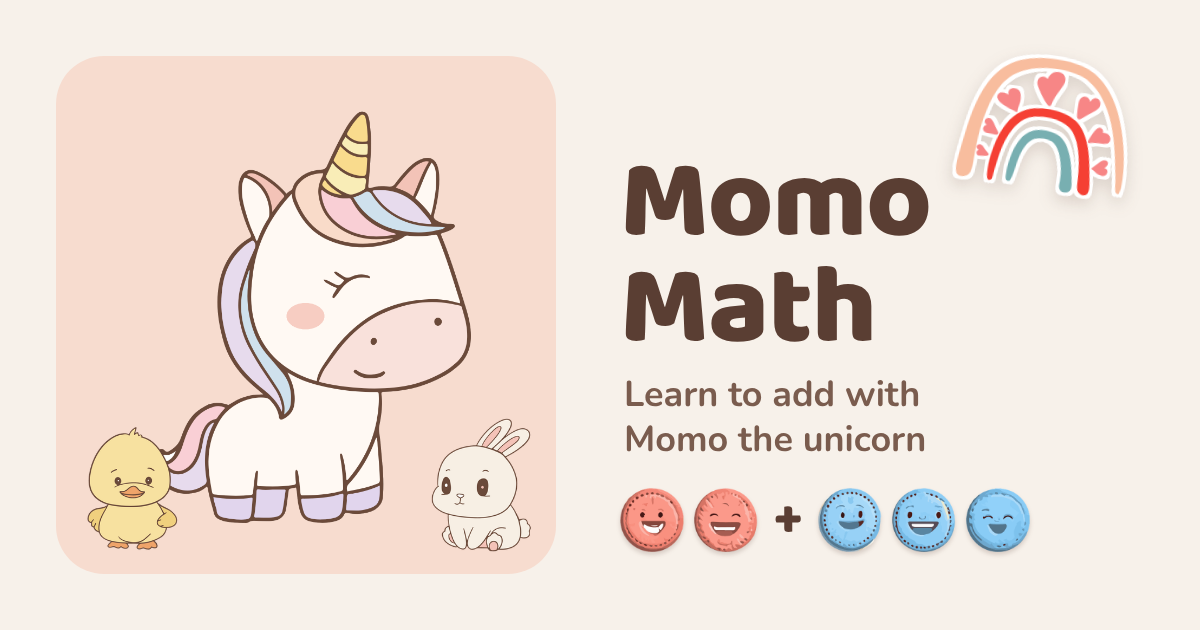
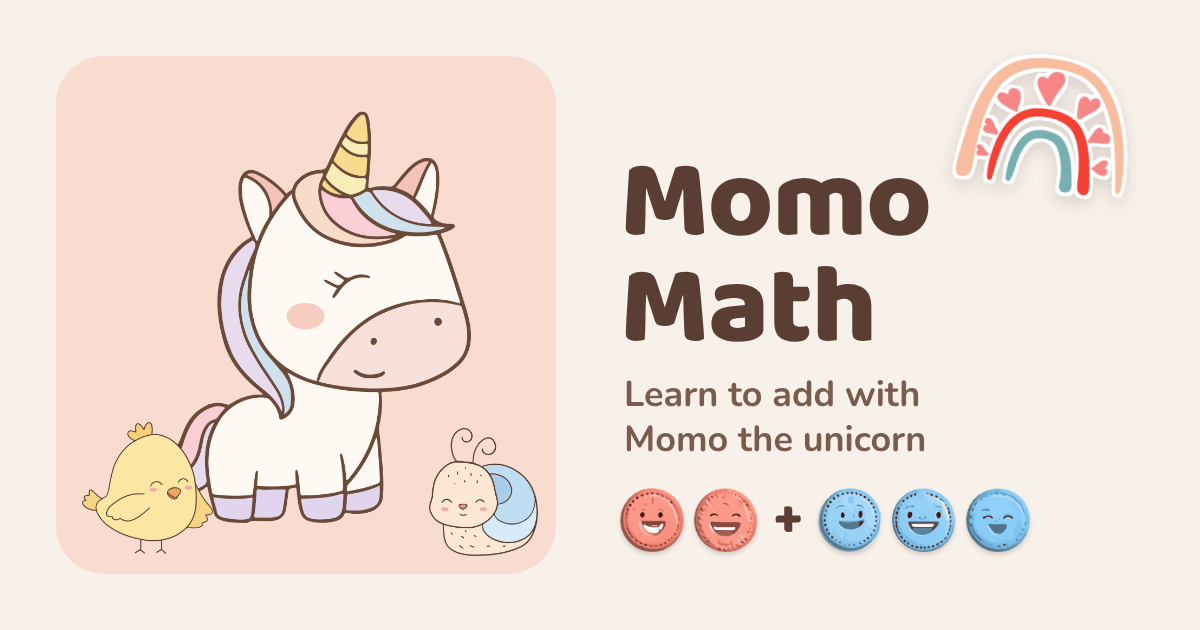
Bus Stop: snails instead of bunnies (art, text and voice in all languages); share image updated
Claude-Session: https://claude.ai/code/session_01MLGMh2dSNpCvxY5SBcjVA2

Changed region(s): [[0.0617, 0.6635, 0.185, 0.8746], [0.3392, 0.6635, 0.4625, 0.8746]]

diff --git a/index.html b/index.html
@@ -20,11 +20,11 @@
 <meta property="og:title" content="Momo Math">
 <meta property="og:description" content="Learn to add with Momo the unicorn: feed cookies, fill the egg carton, count bunnies on the bus. Free, in 6 languages.">
 <meta property="og:url" content="https://math-games-neon.vercel.app/">
-<meta property="og:image" content="https://math-games-neon.vercel.app/og-image.png?v=2">
+<meta property="og:image" content="https://math-games-neon.vercel.app/og-image.png?v=3">
 <meta property="og:image:width" content="1200">
 <meta property="og:image:height" content="630">
 <meta property="og:image:alt" content="Momo the unicorn with red and blue cookies: Momo Math">
-<meta name="twitter:image" content="https://math-games-neon.vercel.app/og-image.png?v=2">
+<meta name="twitter:image" content="https://math-games-neon.vercel.app/og-image.png?v=3">
 <meta name="twitter:card" content="summary_large_image">
 <link rel="preconnect" href="https://fonts.googleapis.com">
 <link href="https://fonts.googleapis.com/css2?family=Baloo+2:wght@600;700;800&family=Nunito:wght@600;700;800&display=swap" rel="stylesheet">
@@ -740,13 +740,13 @@ en: {
   sTenHowMany: [P('All full!', 'cheer'), P('How many blue eggs did you add?', 'ask')],
   sTenRight: function(s, a, n){ return [P('Yes!', 'cheer'), P(s + ' and ' + a + ' make ' + n + '!', 'proud')]; },
   sTenCounted: function(a){ return P('You added ' + a + '!', 'calm'); },
-  busAlt: 'Lulu the bunny', busAll: 'All aboard!', busHowMany: 'How many on the bus?', busAllOn: 'Everyone’s on!', busCount: 'Let’s count on!',
-  busIn: function(s){ return s + ' ' + pl(s, 'bunny', 'bunnies') + ' already on the bus'; }, busTap: 'Help this bunny get on the bus',
-  sBusAsk: function(s, a){ return [P(s === 1 ? 'There is 1 bunny on the bus.' : 'There are ' + s + ' bunnies on the bus.', 'calm'), P(a === 1 ? '1 more is waiting.' : a + ' more are waiting.', 'calm'), P('Tap them to get on!', 'cheer')]; },
-  sBusHowMany: [P('Everyone’s on!', 'cheer'), P('How many bunnies are on the bus now?', 'ask')],
+  busAlt: 'Lulu the snail', busAll: 'All aboard!', busHowMany: 'How many on the bus?', busAllOn: 'Everyone’s on!', busCount: 'Let’s count on!',
+  busIn: function(s){ return s + ' ' + pl(s, 'snail', 'snails') + ' already on the bus'; }, busTap: 'Help this snail get on the bus',
+  sBusAsk: function(s, a){ return [P(s === 1 ? 'There is 1 snail on the bus.' : 'There are ' + s + ' snails on the bus.', 'calm'), P(a === 1 ? '1 more is waiting.' : a + ' more are waiting.', 'calm'), P('Tap them to get on!', 'cheer')]; },
+  sBusHowMany: [P('Everyone’s on!', 'cheer'), P('How many snails are on the bus now?', 'ask')],
   sBusRight: function(s, a, t){ return [P('Yes!', 'cheer'), P(s + ' plus ' + a + ' makes ' + t + '!', 'proud'), P('Beep beep!', 'cheer')]; },
   sBusCountOn: function(s){ return P('Let’s count on. Start at ' + s + '.', 'calm'); },
-  sBusCounted: function(t){ return P(t + ' bunnies!', 'calm'); },
+  sBusCounted: function(t){ return P(t + ' snails!', 'calm'); },
   pickBuddy: 'Pick your buddy!', changeBuddy: 'Change my buddy', buddyN: function(n){ return 'Buddy ' + n; },
   sVoiceOn: [P('Voice is on.', 'calm')],
   sSample: [P('Hi! I’m Momo.', 'cheer'), P('Let’s count cookies!', 'calm')]
@@ -809,13 +809,13 @@ fr: {
   sTenHowMany: [P('C’est plein !', 'cheer'), P('Combien d’œufs bleus as-tu ajoutés ?', 'ask')],
   sTenRight: function(s, a, n){ return [P('Oui !', 'cheer'), P(s + ' et ' + a + ', ça fait ' + n + ' !', 'proud')]; },
   sTenCounted: function(a){ return P('Tu en as ajouté ' + a + ' !', 'calm'); },
-  busAlt: 'Lulu le lapin', busAll: 'Tout le monde monte !', busHowMany: 'Combien dans le bus ?', busAllOn: 'Tout le monde est là !', busCount: 'On compte à partir de là !',
-  busIn: function(s){ return s + ' ' + pl(s, 'lapin', 'lapins') + ' déjà dans le bus'; }, busTap: 'Aider ce lapin à monter dans le bus',
-  sBusAsk: function(s, a){ return [P('Il y a ' + s + ' ' + pl(s, 'lapin', 'lapins') + ' dans le bus.', 'calm'), P(a === 1 ? 'Encore 1 attend.' : 'Encore ' + a + ' attendent.', 'calm'), P('Touche-les pour les faire monter !', 'cheer')]; },
-  sBusHowMany: [P('Tout le monde est là !', 'cheer'), P('Combien de lapins dans le bus maintenant ?', 'ask')],
+  busAlt: 'Lulu l’escargot', busAll: 'Tout le monde monte !', busHowMany: 'Combien dans le bus ?', busAllOn: 'Tout le monde est là !', busCount: 'On compte à partir de là !',
+  busIn: function(s){ return s + ' ' + pl(s, 'escargot', 'escargots') + ' déjà dans le bus'; }, busTap: 'Aider cet escargot à monter dans le bus',
+  sBusAsk: function(s, a){ return [P('Il y a ' + s + ' ' + pl(s, 'escargot', 'escargots') + ' dans le bus.', 'calm'), P(a === 1 ? 'Encore 1 attend.' : 'Encore ' + a + ' attendent.', 'calm'), P('Touche-les pour les faire monter !', 'cheer')]; },
+  sBusHowMany: [P('Tout le monde est là !', 'cheer'), P('Combien d’escargots dans le bus maintenant ?', 'ask')],
   sBusRight: function(s, a, t){ return [P('Oui !', 'cheer'), P(s + ' plus ' + a + ', ça fait ' + t + ' !', 'proud'), P('Tut tut !', 'cheer')]; },
   sBusCountOn: function(s){ return P('On part de ' + s + ' et on continue.', 'calm'); },
-  sBusCounted: function(t){ return P(t + ' lapins !', 'calm'); },
+  sBusCounted: function(t){ return P(t + ' escargots !', 'calm'); },
   pickBuddy: 'Choisis ton animal\u00a0!', changeBuddy: 'Changer mon animal', buddyN: function(n){ return 'Animal ' + n; },
   sVoiceOn: [P('La voix est activée.', 'calm')],
   sSample: [P('Coucou ! Je suis Momo.', 'cheer'), P('On compte des biscuits ?', 'ask')]
@@ -878,10 +878,10 @@ zh: {
   sTenHowMany: [P('放满啦！', 'cheer'), P('你放了几个蓝色的鸡蛋？', 'ask')],
   sTenRight: function(s, a, n){ return [P('对啦！', 'cheer'), P(s + '和' + a + '凑成' + n + '！', 'proud')]; },
   sTenCounted: function(a){ return P('你放了' + a + '个！', 'calm'); },
-  busAlt: '小兔露露', busAll: '大家上车！', busHowMany: '车上有几只？', busAllOn: '都上车啦！', busCount: '接着数！',
-  busIn: function(s){ return '车上已经有' + s + '只小兔'; }, busTap: '帮这只小兔上车',
-  sBusAsk: function(s, a){ return [P('车上已经有' + s + '只小兔。', 'calm'), P('还有' + a + '只在等车。', 'calm'), P('点它们上车吧！', 'cheer')]; },
-  sBusHowMany: [P('都上车啦！', 'cheer'), P('现在车上一共有几只小兔？', 'ask')],
+  busAlt: '蜗牛露露', busAll: '大家上车！', busHowMany: '车上有几只？', busAllOn: '都上车啦！', busCount: '接着数！',
+  busIn: function(s){ return '车上已经有' + s + '只小蜗牛'; }, busTap: '帮这只小蜗牛上车',
+  sBusAsk: function(s, a){ return [P('车上已经有' + s + '只小蜗牛。', 'calm'), P('还有' + a + '只在等车。', 'calm'), P('点它们上车吧！', 'cheer')]; },
+  sBusHowMany: [P('都上车啦！', 'cheer'), P('现在车上一共有几只小蜗牛？', 'ask')],
   sBusRight: function(s, a, t){ return [P('对啦！', 'cheer'), P(s + '加' + a + '等于' + t + '！', 'proud'), P('嘀嘀！', 'cheer')]; },
   sBusCountOn: function(s){ return P('从' + s + '开始，接着数。', 'calm'); },
   sBusCounted: function(t){ return P('一共' + t + '只！', 'calm'); },
@@ -947,9 +947,9 @@ ja: {
   sTenHowMany: [P('いっぱいに なったね！', 'cheer'), P('あおい たまごを いくつ いれたかな？', 'ask')],
   sTenRight: function(s, a, n){ return [P('せいかい！', 'cheer'), P(s + 'と ' + a + 'で ' + n + '！', 'proud')]; },
   sTenCounted: function(a){ return P(a + 'こ いれたね！', 'calm'); },
-  busAlt: 'うさぎの ルル', busAll: 'のってね！', busHowMany: 'バスに なんびき？', busAllOn: 'みんな のったよ！', busCount: 'つづけて かぞえよう！',
-  busIn: function(s){ return 'バスには もう ' + s + 'ひき のってるよ'; }, busTap: 'この うさぎを バスに のせる',
-  sBusAsk: function(s, a){ return [P('バスには うさぎが ' + s + 'ひき のってるよ。', 'calm'), P('あと ' + a + 'ひき まってるよ。', 'calm'), P('タップして のせてあげてね！', 'cheer')]; },
+  busAlt: 'かたつむりの ルル', busAll: 'のってね！', busHowMany: 'バスに なんびき？', busAllOn: 'みんな のったよ！', busCount: 'つづけて かぞえよう！',
+  busIn: function(s){ return 'バスには もう ' + s + 'ひき のってるよ'; }, busTap: 'この かたつむりを バスに のせる',
+  sBusAsk: function(s, a){ return [P('バスには かたつむりが ' + s + 'ひき のってるよ。', 'calm'), P('あと ' + a + 'ひき まってるよ。', 'calm'), P('タップして のせてあげてね！', 'cheer')]; },
   sBusHowMany: [P('みんな のったよ！', 'cheer'), P('バスには いま なんびき いるかな？', 'ask')],
   sBusRight: function(s, a, t){ return [P('せいかい！', 'cheer'), P(s + ' たす ' + a + ' は ' + t + '！', 'proud'), P('ブッブー！', 'cheer')]; },
   sBusCountOn: function(s){ return P(s + 'から つづけて かぞえよう。', 'calm'); },
@@ -1016,10 +1016,10 @@ yue: {
   sTenHowMany: [P('放滿喇！', 'cheer'), P('你放咗幾多隻藍色雞蛋？', 'ask')],
   sTenRight: function(s, a, n){ return [P('啱喇！', 'cheer'), P(s + '同' + a + '湊夠' + n + '！', 'proud')]; },
   sTenCounted: function(a){ return P('你放咗' + a + '隻！', 'calm'); },
-  busAlt: '小兔露露', busAll: '大家上車！', busHowMany: '車上有幾多隻？', busAllOn: '全部上咗車喇！', busCount: '接住數！',
-  busIn: function(s){ return '車上已經有' + s + '隻小兔'; }, busTap: '幫呢隻小兔上車',
-  sBusAsk: function(s, a){ return [P('車上已經有' + s + '隻小兔。', 'calm'), P('仲有' + a + '隻等緊車。', 'calm'), P('撳佢哋上車啦！', 'cheer')]; },
-  sBusHowMany: [P('全部上咗車喇！', 'cheer'), P('而家車上一共有幾多隻小兔？', 'ask')],
+  busAlt: '蝸牛露露', busAll: '大家上車！', busHowMany: '車上有幾多隻？', busAllOn: '全部上咗車喇！', busCount: '接住數！',
+  busIn: function(s){ return '車上已經有' + s + '隻蝸牛'; }, busTap: '幫呢隻蝸牛上車',
+  sBusAsk: function(s, a){ return [P('車上已經有' + s + '隻蝸牛。', 'calm'), P('仲有' + a + '隻等緊車。', 'calm'), P('撳佢哋上車啦！', 'cheer')]; },
+  sBusHowMany: [P('全部上咗車喇！', 'cheer'), P('而家車上一共有幾多隻蝸牛？', 'ask')],
   sBusRight: function(s, a, t){ return [P('啱喇！', 'cheer'), P(s + '加' + a + '等於' + t + '！', 'proud'), P('嘟嘟！', 'cheer')]; },
   sBusCountOn: function(s){ return P('由' + s + '開始，接住數。', 'calm'); },
   sBusCounted: function(t){ return P('一共' + t + '隻！', 'calm'); },
@@ -1085,10 +1085,10 @@ ko: {
   sTenHowMany: [P('꽉 찼어요!', 'cheer'), P('파란 달걀을 몇 개 넣었나요?', 'ask')],
   sTenRight: function(s, a, n){ return [P('맞아요!', 'cheer'), P(s + ' 더하기 ' + a + koEun(a) + ' ' + n + '!', 'proud')]; },
   sTenCounted: function(a){ return P(a + '개 넣었어요!', 'calm'); },
-  busAlt: '토끼 룰루', busAll: '모두 타세요!', busHowMany: '버스에 몇 마리?', busAllOn: '모두 탔어요!', busCount: '이어서 세어 봐요!',
-  busIn: function(s){ return '버스에 벌써 토끼 ' + s + '마리'; }, busTap: '이 토끼를 버스에 태우기',
-  sBusAsk: function(s, a){ return [P('버스에 토끼가 ' + s + '마리 타고 있어요.', 'calm'), P(a + '마리가 더 기다리고 있어요.', 'calm'), P('눌러서 태워 주세요!', 'cheer')]; },
-  sBusHowMany: [P('모두 탔어요!', 'cheer'), P('이제 버스에 토끼가 모두 몇 마리 있나요?', 'ask')],
+  busAlt: '달팽이 룰루', busAll: '모두 타세요!', busHowMany: '버스에 몇 마리?', busAllOn: '모두 탔어요!', busCount: '이어서 세어 봐요!',
+  busIn: function(s){ return '버스에 벌써 달팽이 ' + s + '마리'; }, busTap: '이 달팽이를 버스에 태우기',
+  sBusAsk: function(s, a){ return [P('버스에 달팽이가 ' + s + '마리 타고 있어요.', 'calm'), P(a + '마리가 더 기다리고 있어요.', 'calm'), P('눌러서 태워 주세요!', 'cheer')]; },
+  sBusHowMany: [P('모두 탔어요!', 'cheer'), P('이제 버스에 달팽이가 모두 몇 마리 있나요?', 'ask')],
   sBusRight: function(s, a, t){ return [P('맞아요!', 'cheer'), P(s + ' 더하기 ' + a + koEun(a) + ' ' + t + '!', 'proud'), P('빵빵!', 'cheer')]; },
   sBusCountOn: function(s){ return P(s + '부터 이어서 세어 봐요.', 'calm'); },
   sBusCounted: function(t){ return P('모두 ' + t + '마리!', 'calm'); },
@@ -1375,7 +1375,7 @@ function renderHome(){
     '<div class="games"><div class="tiles three">' +
       '<button class="tile feed" data-act="play">' + momo('hungry').replace('class="momo"', 'class="pic animal"') + L('gFeed') + '</button>' +
       '<button class="tile ten" data-act="ten">' + critter('chick') + L('gTen') + '</button>' +
-      '<button class="tile bus" data-act="bus">' + critter('bunny') + L('gBus') + '</button>' +
+      '<button class="tile bus" data-act="bus">' + critter('snail') + L('gBus') + '</button>' +
     '</div>' +
     '<div class="soon-wrap"><div class="soon-title">' + L('soon') + '</div>' +
     '<div class="soon two">' +
@@ -1958,10 +1958,10 @@ document.addEventListener('touchend', function(e){ if (tdrag && e.touches.length
 document.addEventListener('touchcancel', function(){ if (tdrag) tFinish(); });
 
 /* =====================================================================
-   BUS STOP (bunny): count on from the number already on the bus
+   BUS STOP (snail): count on from the number already on the bus
    ===================================================================== */
 var BUS_SEATS = 4;
-function bunnyImg(cls){ return '<img class="' + (cls || 'momo bunny') + '" src="animals/bunny.png" alt="' + esc(L('busAlt')) + '" draggable="false">'; }
+function bunnyImg(cls){ return '<img class="' + (cls || 'momo bunny') + '" src="animals/snail.png" alt="' + esc(L('busAlt')) + '" draggable="false">'; }
 function pickBus(){
   var max = S.maxSum, bag = [];
   for (var s = 2; s < max; s++) for (var a = 1; a <= Math.min(BUS_SEATS, max - s); a++) {
@@ -2054,7 +2054,7 @@ function busBoard(i){
   }
   var landed = false, fly = null;
   if (from && to && !reduceMotion) {
-    fly = document.createElement('img'); fly.src = 'animals/bunny.png'; fly.className = 'bus-fly'; fly.alt = '';
+    fly = document.createElement('img'); fly.src = 'animals/snail.png'; fly.className = 'bus-fly'; fly.alt = '';
     fly.style.left = from.left + 'px'; fly.style.top = from.top + 'px'; fly.style.width = from.width + 'px'; fly.style.height = from.height + 'px';
     document.body.appendChild(fly);
     var dx = to.left + to.width / 2 - (from.left + from.width / 2), dy = to.top + to.height * .45 - (from.top + from.height / 2), sc = Math.max(.4, to.width * 1.1 / from.width);
@@ -2129,7 +2129,7 @@ function showBusReward(){
     '<div class="row"><div class="chip">' + ICON.star + '+1</div><button class="big-btn" data-act="next">' + (last ? L('finish') : L('next')) + '</button></div></div>');
   confetti();
 }
-/* a bunny boards when the finger lifts, whether it was a tap or a drag toward the bus */
+/* a snail boards when the finger lifts, whether it was a tap or a drag toward the bus */
 var bpress = null;
 document.addEventListener('pointerdown', function(e){
   if (!e.target.closest || screen !== 'bus' || !G || G.lock || G.phase !== 'board') return;
